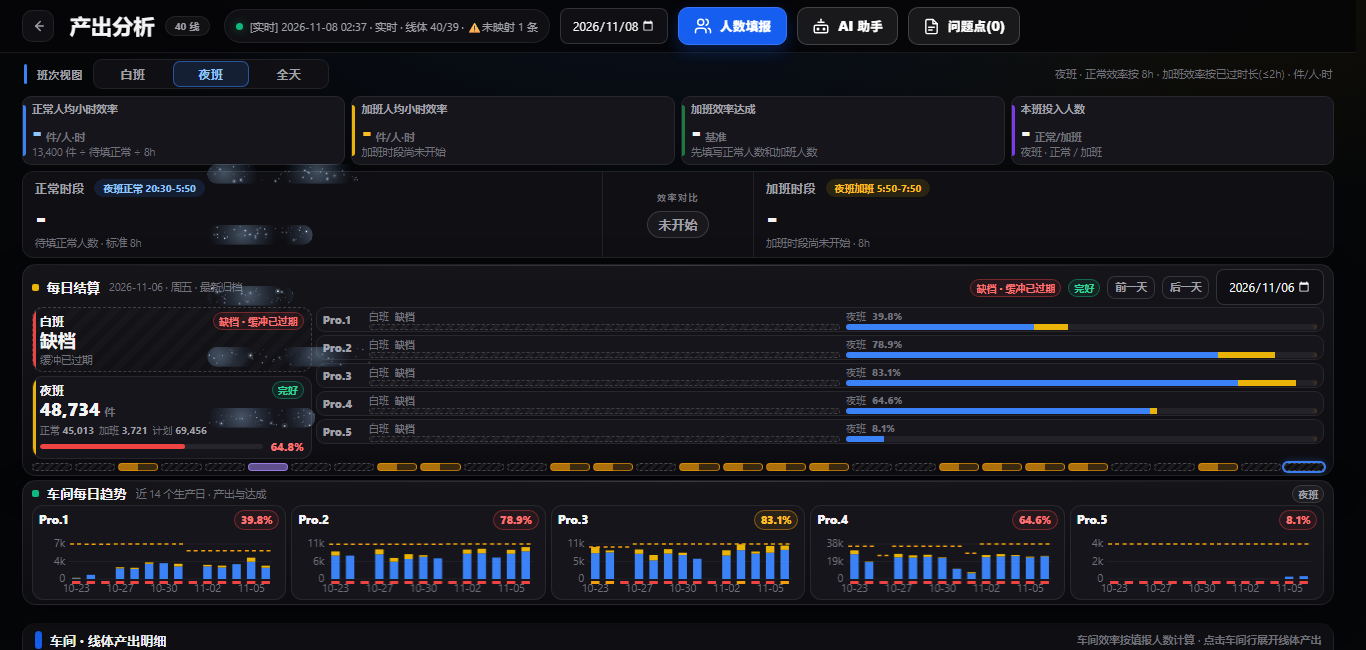
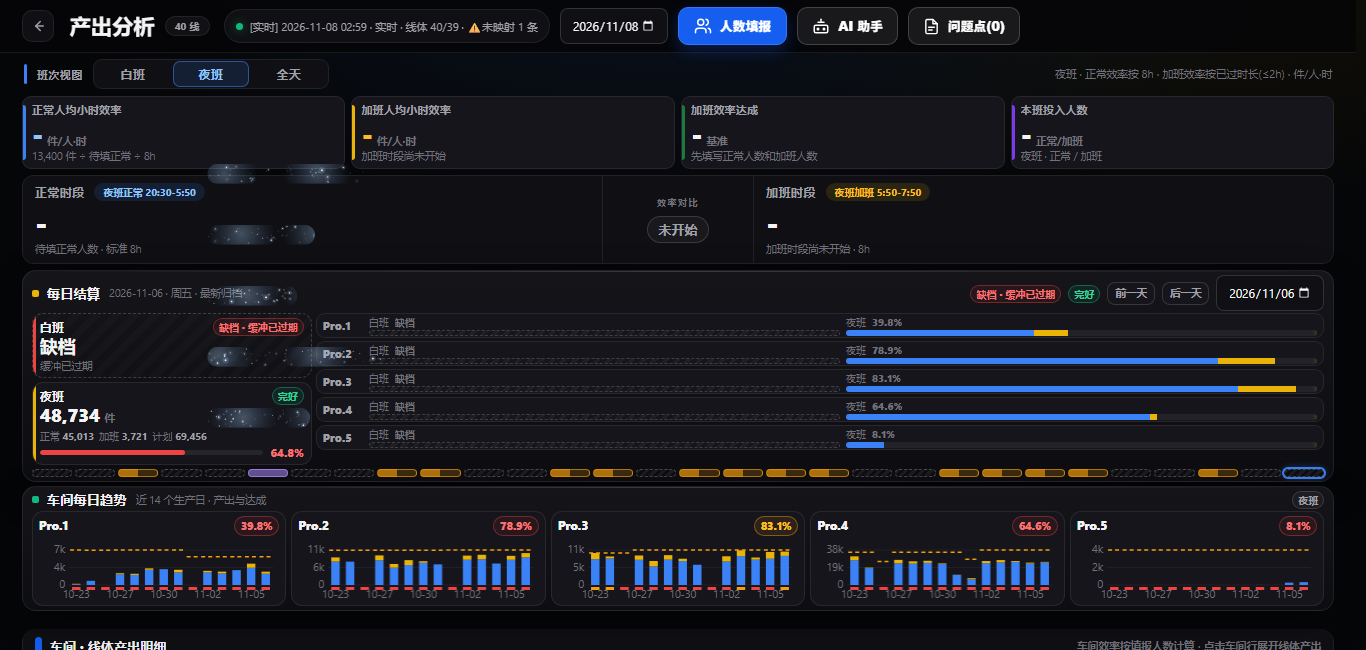
polish(analysis): KPI/对比数字保持原字号 + SW v24

diff --git a/analysis-page.js b/analysis-page.js
@@ -846,8 +846,8 @@
   "#anaRoot .ana-kpi{min-height:0;padding:7px 11px 6px;background:#15151b;border:1px solid var(--ana-line);border-radius:11px;box-shadow:none}",
   "#anaRoot .ana-kpi::before{top:8px;bottom:8px;width:3px;border-radius:0 3px 3px 0}",
   "#anaRoot .ana-kpi::after{color:#52525b;font-size:9px;top:7px;right:10px}",
-  "#anaRoot .ana-kpi .k-label{color:#a1a1aa;font-size:10.5px}",
-  "#anaRoot .ana-kpi .k-value{margin-top:3px;color:#f4f4f5;font-size:26px}",
+  "#anaRoot .ana-kpi .k-label{color:#a1a1aa;font-size:11px}",
+  "#anaRoot .ana-kpi .k-value{margin-top:3px;color:#f4f4f5;font-size:29px}",
   "#anaRoot .ana-kpi .k-value small{color:#71717a;font-size:10.5px}",
   "#anaRoot .ana-kpi .k-meta{margin-top:2px;color:#71717a;font-size:10.5px}",
   "#anaRoot .ana-kpi.k-n .k-value{color:#93c5fd}#anaRoot .ana-kpi.k-o .k-value{color:#fbbf24}#anaRoot .ana-kpi.k-rate .k-value{color:#34d399}#anaRoot .ana-kpi.k-head .k-value{color:#f4f4f5}",
@@ -859,7 +859,7 @@
   "#anaRoot #vsBand .vs-side .lb{color:#a1a1aa;font-size:11px}",
   "#anaRoot #vsBand .vs-side .lb .tag{background:rgba(59,130,246,.14);color:#93c5fd;border-color:rgba(59,130,246,.3);font-size:9.5px}",
   "#anaRoot #vsBand .vs-side.ot .lb .tag{background:rgba(234,179,8,.12);color:#fbbf24;border-color:rgba(234,179,8,.3)}",
-  "#anaRoot #vsBand .vs-side .num{margin-top:1px;color:#f4f4f5;font-size:30px}",
+  "#anaRoot #vsBand .vs-side .num{margin-top:1px;color:#f4f4f5;font-size:34px}",
   "#anaRoot #vsBand .vs-side .num small{color:#71717a;font-size:11px}",
   "#anaRoot #vsBand .vs-side .sb{margin-top:1px;color:#71717a;font-size:10.5px}",
   "#anaRoot #vsBand .vs-mid{background:#101014;padding:6px 10px}",
@@ -912,7 +912,7 @@
   "#anaRoot .ana-state{color:#a1a1aa}",
   "#anaRoot .spinner{border-color:var(--ana-line);border-top-color:#3b82f6}",
   "@media (max-width:760px){#anaRoot #vsBand{grid-template-columns:1fr}#anaRoot #vsBand .vs-side:first-child{border-right:0;border-bottom:1px solid var(--ana-line)}#anaRoot #vsBand .vs-side.ot{border-left:0;border-top:1px solid var(--ana-line)}}",
-  "@media (max-height:700px){#anaRoot{padding-bottom:14px}#anaRoot .ana-top{min-height:0;padding:7px clamp(14px,1.6vw,28px);margin-bottom:6px}#anaRoot .ana-heading .eyebrow{display:none}#anaRoot .ana-top h1{font-size:21px}#anaRoot .ana-top .ic{width:32px;height:32px}#anaRoot .subrow{padding-bottom:3px;margin-bottom:4px}#anaRoot .chips{padding:1px}#anaRoot .chips button{min-height:26px;padding:3px 11px;font-size:12px}#anaRoot .sub-hint{font-size:10.5px}#anaRoot .ana-kpis{gap:6px;margin-bottom:6px}#anaRoot .ana-kpi{padding:5px 9px;border-radius:9px}#anaRoot .ana-kpi .k-value{font-size:26px;margin-top:2px}#anaRoot .ana-kpi .k-meta{font-size:10.5px;margin-top:1px}#anaRoot .ana-kpi .k-label{font-size:10.5px}#anaRoot .ana-kpi::after{display:none}#anaRoot #vsBand{margin-bottom:6px}#anaRoot #vsBand .vs-side{padding:4px 10px}#anaRoot #vsBand .vs-side .num{font-size:30px}#anaRoot #vsBand .vs-side .lb{font-size:12px}#anaRoot #vsBand .vs-side .sb{font-size:10.5px}#anaRoot #vsBand .vs-mid{padding:4px 7px}#anaRoot #vsVerdict{display:none!important}#anaRoot .section-head{min-height:36px;padding:8px 12px}#anaRoot .section-head h2{font-size:13px}#anaRoot .wsrow{min-height:38px;padding:6px 12px}#anaRoot .lrow{min-height:32px;padding:5px 12px 5px 40px}#anaRoot .footnote summary{min-height:36px;padding:8px 12px;font-size:12px}}",
+  "@media (max-height:700px){#anaRoot{padding-bottom:14px}#anaRoot .ana-top{min-height:0;padding:7px clamp(14px,1.6vw,28px);margin-bottom:6px}#anaRoot .ana-heading .eyebrow{display:none}#anaRoot .ana-top h1{font-size:21px}#anaRoot .ana-top .ic{width:32px;height:32px}#anaRoot .subrow{padding-bottom:3px;margin-bottom:4px}#anaRoot .chips{padding:1px}#anaRoot .chips button{min-height:26px;padding:3px 11px;font-size:12px}#anaRoot .sub-hint{font-size:10.5px}#anaRoot .ana-kpis{gap:6px;margin-bottom:6px}#anaRoot .ana-kpi{padding:5px 9px;border-radius:9px}#anaRoot .ana-kpi .k-value{font-size:29px;margin-top:2px}#anaRoot .ana-kpi .k-meta{font-size:10.5px;margin-top:1px}#anaRoot .ana-kpi .k-label{font-size:11px}#anaRoot .ana-kpi::after{display:none}#anaRoot #vsBand{margin-bottom:6px}#anaRoot #vsBand .vs-side{padding:4px 10px}#anaRoot #vsBand .vs-side .num{font-size:32px}#anaRoot #vsBand .vs-side .lb{font-size:12px}#anaRoot #vsBand .vs-side .sb{font-size:10.5px}#anaRoot #vsBand .vs-mid{padding:4px 7px}#anaRoot #vsVerdict{display:none!important}#anaRoot .section-head{min-height:36px;padding:8px 12px}#anaRoot .section-head h2{font-size:13px}#anaRoot .wsrow{min-height:38px;padding:6px 12px}#anaRoot .lrow{min-height:32px;padding:5px 12px 5px 40px}#anaRoot .footnote summary{min-height:36px;padding:8px 12px;font-size:12px}}",
   "@media (min-height:1100px){#anaRoot .ana-top{min-height:56px;padding:10px clamp(14px,1.6vw,28px)}#anaRoot .ana-top h1{font-size:22px}#anaRoot .subrow{padding-bottom:7px;margin-bottom:7px}#anaRoot .chips button{min-height:32px;font-size:12.5px;padding:6px 16px}#anaRoot .sub-hint{font-size:11px}#anaRoot .ana-kpis{gap:10px;margin-bottom:10px}#anaRoot .ana-kpi{padding:10px 13px 9px;border-radius:12px}#anaRoot .ana-kpi .k-value{font-size:29px;margin-top:4px}#anaRoot .ana-kpi .k-label{font-size:11px}#anaRoot .ana-kpi .k-meta{font-size:11px;margin-top:3px}#anaRoot #vsBand{margin-bottom:10px}#anaRoot #vsBand .vs-side{padding:9px 14px}#anaRoot #vsBand .vs-side .num{font-size:34px}#anaRoot #vsBand .vs-side .lb{font-size:12px}#anaRoot #vsBand .vs-side .sb{font-size:11px}#anaRoot #vsBand .vs-mid{padding:8px 12px}#anaRoot #vsVerdict{padding:8px 12px;margin-bottom:10px;font-size:12px}#anaRoot .section-head{min-height:46px;padding:10px 14px}#anaRoot .section-head h2{font-size:13px}#anaRoot .wsrow{min-height:44px;padding:8px 14px}#anaRoot .lrow{min-height:36px;padding:6px 14px 6px 42px}}",
   ].join("\n");
 

diff --git a/sw.js b/sw.js
@@ -1,5 +1,5 @@
 /* PDTIII 看板 Service Worker — 离线壳: 缓存页面自身, 数据仍走 Firebase 实时网络 */
-var CACHE = 'pdtiii-shell-v23'; // 2026-11-08 产出分析: 深色 + 每日结算/归档健康/车间趋势
+var CACHE = 'pdtiii-shell-v24'; // 2026-11-08 产出分析: 深色 + 每日结算/归档健康/车间趋势
 var CORE = [
   './',
   './index.html',

diff --git a/design/夜班报告_20261108.md b/design/夜班报告_20261108.md
@@ -88,8 +88,8 @@ changed_shift_files=0   # 第二次运行后 shifts/*.json 哈希不变
   - 打开时自动跟随当前班次（夜班 20:30–08:00 / 白班其余时间），不再夜里默认白班显示 0。
   - 人数填报入口保留在顶栏，弹窗表格深色适配；顶部日期输入仍控制实时/历史 KPI。
   - 隐藏重复的旧趋势卡和内联人数图；保留线体明细表。
-- `index.html`：`analysis-page.js?v=20261108dark2`、`analysis-history.js?v=20261108dark3`、`sw.js?v=20261108dark3`。
-- `sw.js`：`CACHE = pdtiii-shell-v23`。
+- `index.html`：`analysis-page.js?v=20261108dark3`、`analysis-history.js?v=20261108dark3`、`sw.js?v=20261108dark4`。
+- `sw.js`：`CACHE = pdtiii-shell-v24`。
 
 ### 1.4 外部触发方案（未实施）
 
@@ -113,7 +113,7 @@ changed_shift_files=0   # 第二次运行后 shifts/*.json 哈希不变
 3. **数据端冻结仍在。** 归档按 `d` 过滤，业务汇总用 00:30–07:50 的正确累计值；但夜班前半夜明细缺失，质量记 `bucketDateMismatch` 警告。页面顶部实时 KPI 仍沿用原有 `analysis-page.js` 的聚合逻辑（不按 `d` 过滤），夜里可能显示冻结桶的旧值（例如 02:00 截图里夜班 13,400 件）。这是数据端 bug 的可见影响，本次没有扩大改动去改实时聚合。
 4. **11-07 白班**在本地还没有占位文件；下一次云端归档会补夜班，再下一次补白班占位。页面健康条目前最后一天是 11-06。
 5. **旧快照不可变。** 10-11-night、10-13-night 等 `coveredLines=0/2` 的文件仍在磁盘上；`health` 已按 `partial` 显示并加 `legacyQualityUnverified`，但文件本身没有改写。
-6. **1366×650 下**三块必需内容在首屏完整可见（趋势底部 y≈585），但线体明细在折叠下方，需要滚动；这是按“必需三块优先”的取舍。
+6. **1366×650 下**三块必需内容在首屏完整可见（趋势底部 y≈591），但线体明细在折叠下方，需要滚动；这是按“必需三块优先”的取舍。
 7. **2560×1300** 下内容使用 `max-width:2240` 居中，趋势底部 y≈1194，首屏完整；下方仍有空白，没有为了填满而放大字号。
 8. **无障碍**：健康格是可用键盘聚焦的按钮，canvas 有 `role=img/tabindex/aria-label`，缺档有 `×` 和文字徽标；未做完整屏幕阅读器逐项走查。
 9. **浏览器覆盖**：只在 Chrome headless + 桌面 Chrome 下截图；未测 Safari/Firefox/手机。
@@ -176,8 +176,8 @@ health.summary = {complete: 25, partial: 18, missing: 16, invalid: 1}
 浏览器检查（headless Chrome + CDP，直接按目标窗口加载）：
 
 ```text
-1920×950:  trends bottom ≈ 811 / 950, 无横向溢出, 控制台 0 error, NaN/undefined 0
-1366×650:  trends bottom ≈ 585 / 650, bodyScrollWidth=1366, 控制台 0 error, NaN/undefined 0
+1920×950:  trends bottom ≈ 819 / 950, 无横向溢出, 控制台 0 error, NaN/undefined 0
+1366×650:  trends bottom ≈ 591 / 650, bodyScrollWidth=1366, 控制台 0 error, NaN/undefined 0
 2560×1300: trends bottom ≈ 1194 / 1300, 无横向溢出, 控制台 0 error, NaN/undefined 0
 ```
 
